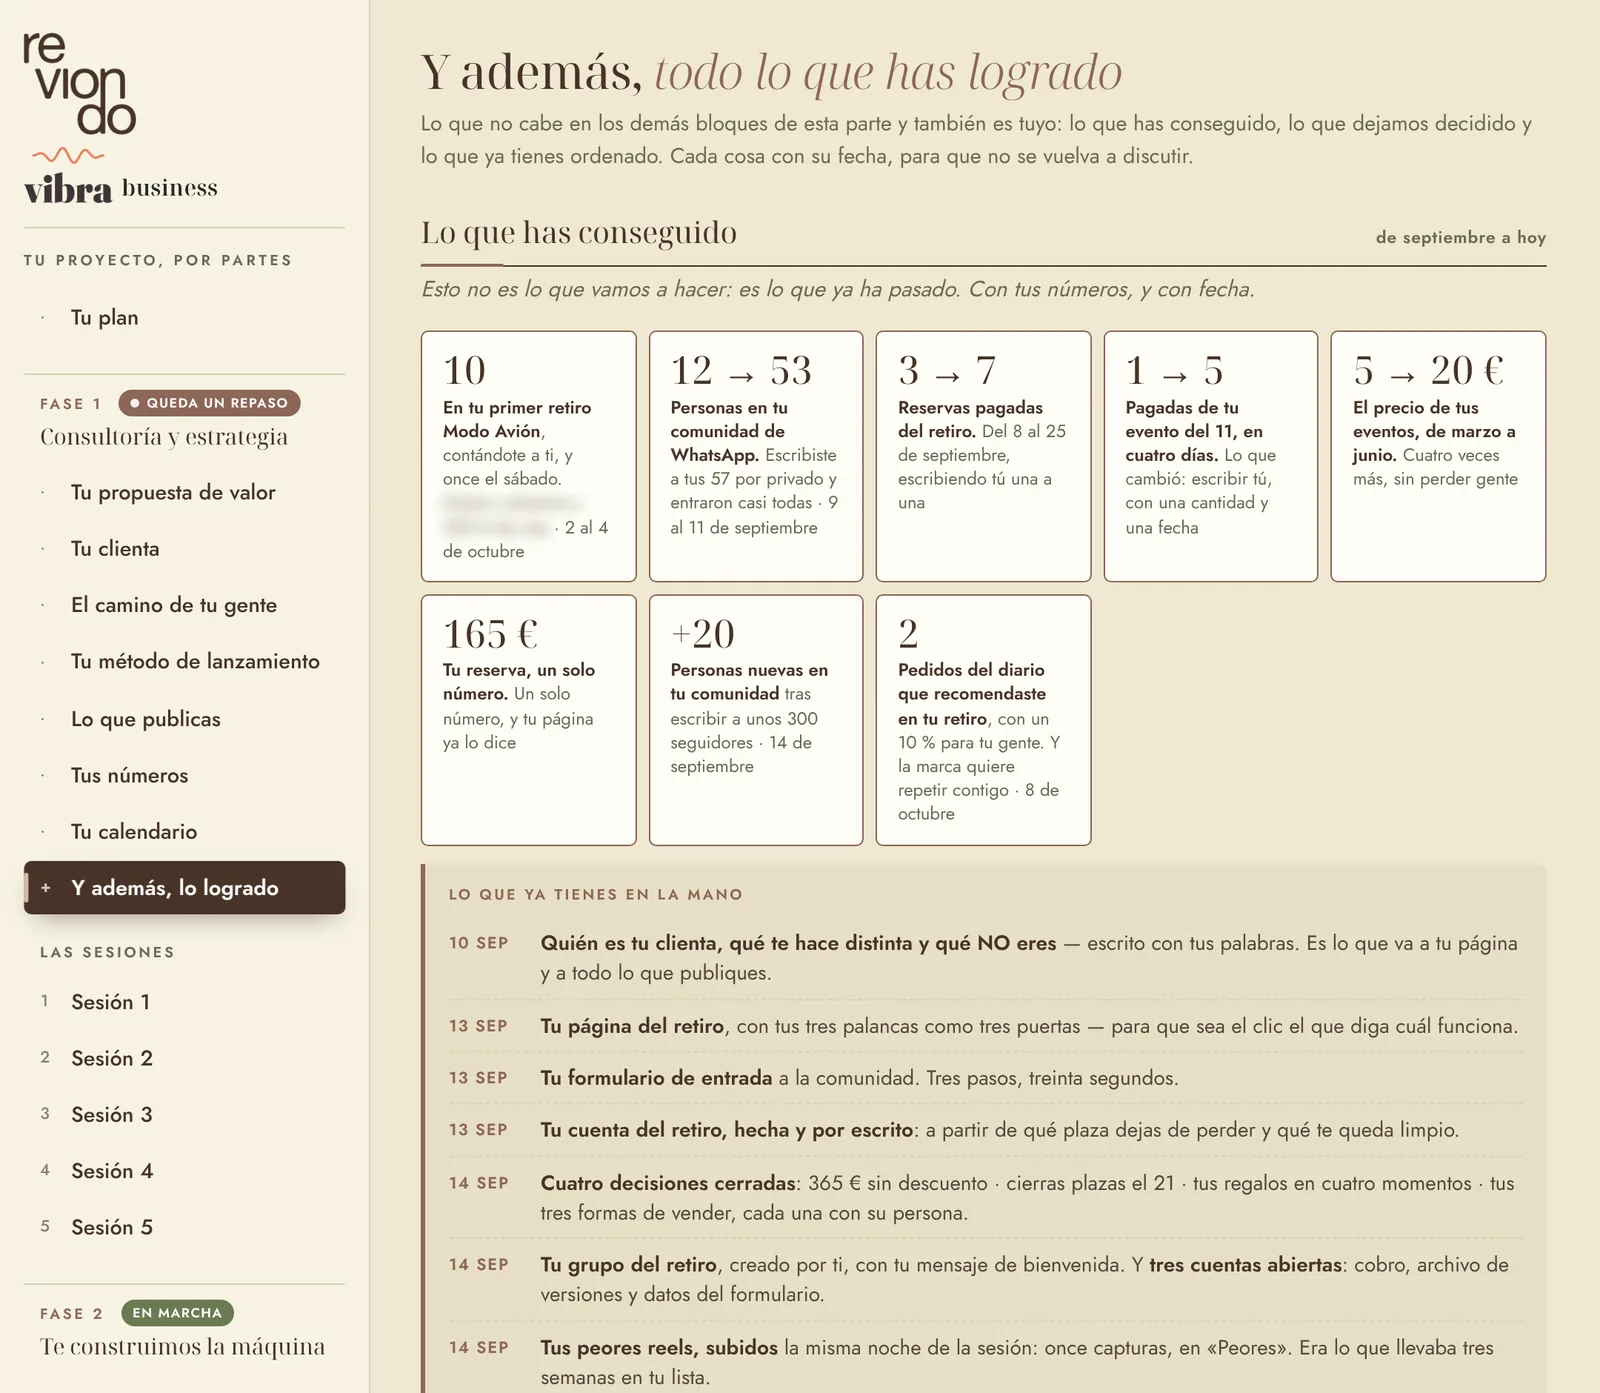
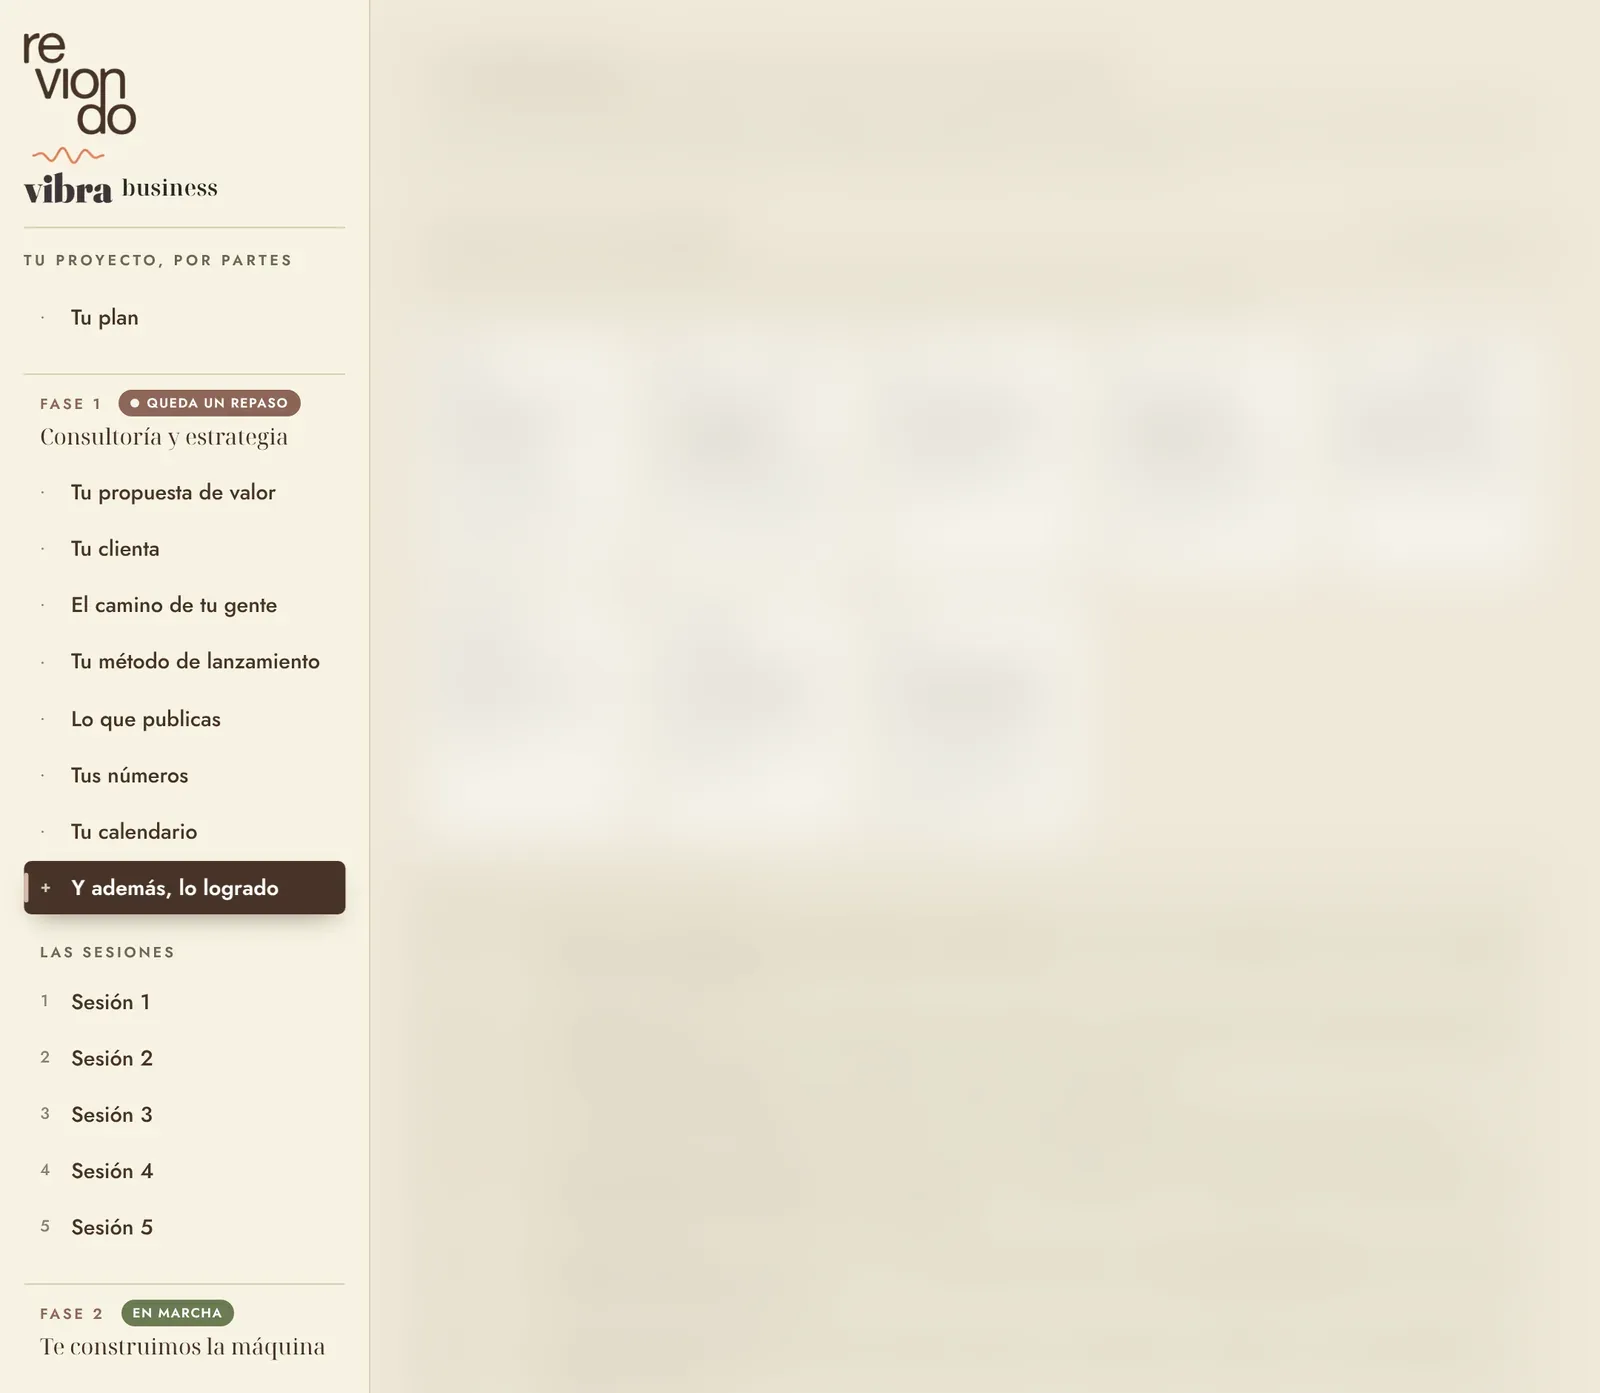
Método VIBRA: panel de Sara solo con su menú, Fase 2 sin botones y Fase 3 sin el cuaderno
- Fase 1: en la captura del panel de Sara solo se lee el menú de la
  izquierda; el resto va desenfocado (son sus datos).
- Fase 2: fuera «Ver un ejemplo montado» y «Ver su página de regalo»; ya
  lo cuentan las tres pantallas de Elena.
- Fase 3: fuera las dos capturas del cuaderno; queda «Cómo se monta un
  viaje» con el botón a la previa.

Claude-Session: https://claude.ai/code/session_01Hi16hZRK8ADeTFM1DhpdRx

diff --git a/metodo-vibra/index.html b/metodo-vibra/index.html
@@ -676,13 +676,13 @@ html.js .rv.on{opacity:1;transform:none}
           <button class="ver-ej" data-abrir="ej-diagnostico" data-evento="clic_ejemplo_diagnostico">Ver un caso real →</button>
         </div>
         <div class="cap-num" aria-hidden="true"><span>1</span></div>
-        <!-- Ejemplos reales de la fase 1: el panel de Sara · Reviondo al cerrar su Fase 1
-             (su resultado económico, desenfocado) y el interés por plan de la lista de VIBRA. -->
+        <!-- Ejemplos reales de la fase 1: el menú del panel de Sara · Reviondo al cerrar su Fase 1
+             (todo lo demás, desenfocado: son sus datos) y el interés por plan de la lista de VIBRA. -->
         <div class="cap-ej">
           <span class="cap-ej-t">Lo que sale de la auditoría</span>
           <figure class="mk-fig ancha">
-            <div class="cap-scroll"><img class="cap-img" src="ej-fase1-panel-sara.webp" width="1600" height="1393" loading="lazy" decoding="async" alt="Panel de Sara · Reviondo: a la izquierda, la Fase 1 entera —propuesta de valor, clienta, el camino de su gente, método de lanzamiento, lo que publica, números y calendario— y las cinco sesiones; a la derecha, «Todo lo que has logrado»: de 12 a 53 personas en su comunidad, de 3 a 7 reservas pagadas y su primer retiro Modo Avión con 10 personas"></div>
-            <figcaption class="mk-pie">Así queda el panel de una clienta al cerrar la Fase 1: a la izquierda, todo lo que ya tiene en la mano; a la derecha, lo que ha conseguido, con sus números y con fecha. Es el de Sara · Reviondo. <span class="cap-desliza">Desliza para verla entera →</span></figcaption>
+            <div class="cap-scroll"><img class="cap-img" src="ej-fase1-panel-sara.webp" width="1600" height="1393" loading="lazy" decoding="async" alt="Menú del panel de Sara · Reviondo al cerrar su Fase 1: su plan, propuesta de valor, clienta, el camino de su gente, método de lanzamiento, lo que publica, sus números, su calendario y sus cinco sesiones. El resto del panel va desenfocado."></div>
+            <figcaption class="mk-pie">Así queda el panel de una clienta al cerrar la Fase 1: cada pieza de su estrategia, por partes y en un mismo enlace. Es el de Sara · Reviondo; lo suyo, desenfocado. <span class="cap-desliza">Desliza para verla entera →</span></figcaption>
           </figure>
           <figure class="mk-fig ancha">
             <div class="cap-scroll"><img class="cap-img" src="ej-fase1-interes-plan.webp" width="1600" height="458" loading="lazy" decoding="async" alt="Gráfico de barras «Interés por plan»: cuántas personas han marcado cada plan en el test, del más pedido al menos"></div>
@@ -696,7 +696,6 @@ html.js .rv.on{opacity:1;transform:none}
           <span class="cap-n">Fase 2</span>
           <h3>Te construyo la máquina</h3>
           <p>Todo lo que hoy te come horas — la web, los cobros, el grupo, el contenido, los datos, la publicidad — montado, conectado y funcionando. Tú aquí no construyes nada: la pruebas, te la explico y <b>la manejas hablando</b>. La lista de piezas no está en esta página a propósito: tu máquina se diseña sobre tu negocio, no sobre una plantilla. Y se queda <b>tuya para siempre</b>, sin permanencia.</p>
-          <button class="ver-ej" data-abrir="ej-embudo" data-evento="clic_ejemplo_embudo">Ver un ejemplo montado →</button>
         </div>
         <div class="cap-num" aria-hidden="true"><span>2</span></div>
         <!-- Ejemplo real de la fase 2: el recorrido de Elena Isa, de su puerta a la clase de regalo tras reservar. -->
@@ -720,10 +719,6 @@ html.js .rv.on{opacity:1;transform:none}
               <p>Paga la señal y aterriza aquí: su clase de yoga de regalo, sola. Elena no tiene que mandar nada.</p>
             </li>
           </ol>
-          <div class="cap-ej-acc">
-            <a class="btn-ej" href="https://vibra-business-ejemplos.netlify.app/regalo/" target="_blank" rel="noopener" data-evento="clic_ejemplo_regalo">Ver su página de regalo <span class="flecha" aria-hidden="true">→</span></a>
-            <span class="ej-nota">Se abre en otra pestaña. Es la página que le llega a quien reserva con Elena.</span>
-          </div>
         </div>
       </article>
 
@@ -738,17 +733,9 @@ html.js .rv.on{opacity:1;transform:none}
           <button class="ver-ej" data-abrir="ej-planning" style="display:none">Ver cómo queda un viaje montado →</button>
         </div>
         <div class="cap-num" aria-hidden="true"><span>3</span></div>
-        <!-- Ejemplos reales de la fase 3: el cuaderno del lanzamiento de Asturias y el cuaderno del viaje. -->
+        <!-- Ejemplo real de la fase 3: el viaje de VIBRA montado (la previa «Nos vamos al norte»). -->
         <div class="cap-ej">
-          <span class="cap-ej-t">Un lanzamiento real</span>
-          <figure class="mk-fig ancha">
-            <div class="cap-scroll"><img class="cap-img" src="ej-fase3-cuaderno-lanzamiento.webp" width="1600" height="678" loading="lazy" decoding="async" alt="Cuaderno del lanzamiento del viaje a Asturias: seis bloques en fila, de A Temporada a F Cierre, con la marca «Estás aquí» en Preparación"></div>
-            <figcaption class="mk-pie">Así se ve el cuaderno de un lanzamiento real de VIBRA: seis bloques, de la temporada al cierre, con los tiempos marcados. Y los números de uno alimentan el siguiente. <span class="cap-desliza">Desliza para verla entera →</span></figcaption>
-          </figure>
-          <figure class="mk-fig ancha">
-            <div class="cap-scroll"><img class="cap-img" src="ej-fase3-cuaderno-viaje.webp" width="1200" height="762" loading="lazy" decoding="async" alt="Cuaderno del viaje: inscritos, quién viene a la previa, nivel de surf y tallas de neopreno, leídos del CRM en el momento"></div>
-            <figcaption class="mk-pie">El cuaderno del viaje de Asturias: lo que fue contestando la gente que reservó, leído del CRM en el momento. Con eso se cierran los grupos y el material, sin perseguir a nadie. <span class="cap-desliza">Desliza para verla entera →</span></figcaption>
-          </figure>
+          <span class="cap-ej-t">Cómo se monta un viaje</span>
           <div class="cap-ej-acc">
             <a class="btn-ej" href="https://vibrasociety.es/viaje-vibra-con-liveokey/previa/" target="_blank" rel="noopener" data-evento="clic_ejemplo_viaje">Ver el viaje montado <span class="flecha" aria-hidden="true">→</span></a>
             <span class="ej-nota">Se abre en otra pestaña. La previa «Nos vamos al norte»; bajando, llegas al viaje a Asturias con LiveOkey.</span>
